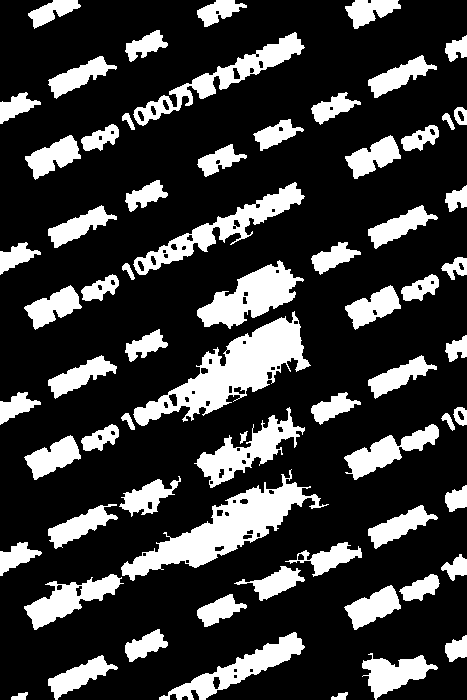
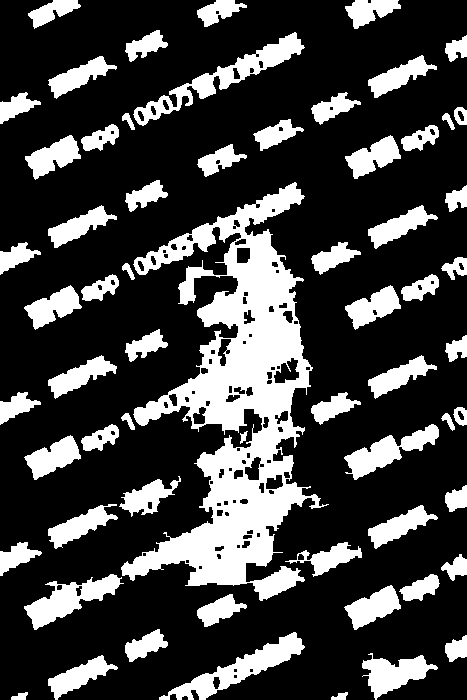
rect: extract the rect wm mask

diff --git a/mask-detector/v2/enhance_analysis/gemini2.py b/mask-detector/v2/enhance_analysis/gemini2.py
@@ -148,15 +148,28 @@ def extract_watermarks_by_group(input_folder, output_folder):
         result = result.astype(np.uint8)
 
         # 2. 阈值提取
-        _, mask = cv2.threshold(result, 0, 255, cv2.THRESH_BINARY | cv2.THRESH_OTSU)
+        _, raw_mask = cv2.threshold(result, 0, 255, cv2.THRESH_BINARY | cv2.THRESH_OTSU)
         
-        # 3. 基于几何特征去噪：利用25度倾斜的平行行特征
-        mask = filter_by_line_geometry(mask, angle_deg=25, line_width=25, min_density_ratio=0.2)
+        # 3. 斜向文字水印：几何过滤
+        text_mask = filter_by_line_geometry(raw_mask, angle_deg=25, line_width=25, min_density_ratio=0.2)
         
-        # 4. 闭运算连接断开的笔画
+        # 4. 矩形水印：被几何过滤掉的大面积密集区域
+        # 原理：矩形水印不符合 25 度倾斜特征，会被过滤掉
+        filtered_out = cv2.subtract(raw_mask, text_mask)
+        # 闭运算连接内部碎片
+        filtered_out = cv2.morphologyEx(filtered_out, cv2.MORPH_CLOSE, np.ones((10,10), np.uint8))
+        # 保留大面积区域（矩形水印特征）
+        num_labels, labels, stats, _ = cv2.connectedComponentsWithStats(filtered_out, connectivity=8)
+        rect_mask = np.zeros_like(filtered_out)
+        for i in range(1, num_labels):
+            if stats[i, cv2.CC_STAT_AREA] >= 500:  # 大面积才是矩形水印
+                rect_mask[labels == i] = 255
+        
+        # 5. 合并两类水印
+        mask = cv2.bitwise_or(text_mask, rect_mask)
+        
+        # 6. 闭运算 + 小区域过滤
         mask = cv2.morphologyEx(mask, cv2.MORPH_CLOSE, np.ones((3,3), np.uint8))
-        
-        # 5. 移除小连通区域（清理残留细线噪点）
         num_labels, labels, stats, _ = cv2.connectedComponentsWithStats(mask, connectivity=8)
         clean_mask = np.zeros_like(mask)
         for i in range(1, num_labels):

diff --git a/mask-detector/v2/enhance_analysis/pipeline.py b/mask-detector/v2/enhance_analysis/pipeline.py
@@ -14,7 +14,7 @@ from gemini2 import scan_images_recursive, extract_watermarks_by_group
 # === 配置 ===
 INPUT_DIR = 'enhance_analysis/images'
 MASK_DIR = 'enhance_analysis/masks'
-OUTPUT_DIR = 'enhance_analysis/output'
+OUTPUT_DIR = 'enhance_analysis/output/01-04'
 MODEL = 'lama'
 DEVICE = 'cpu'
 
